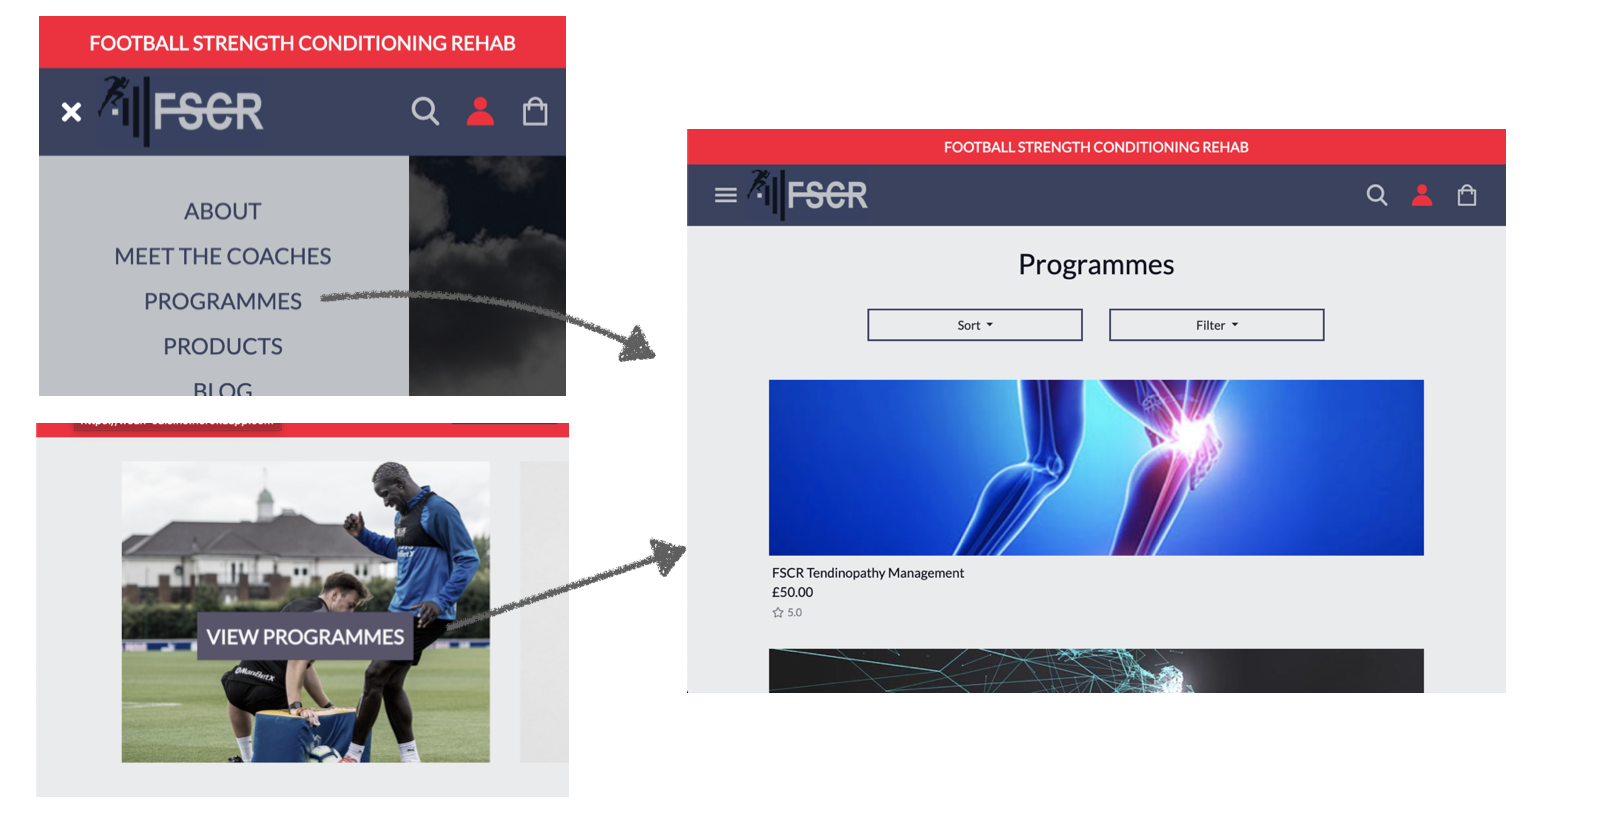
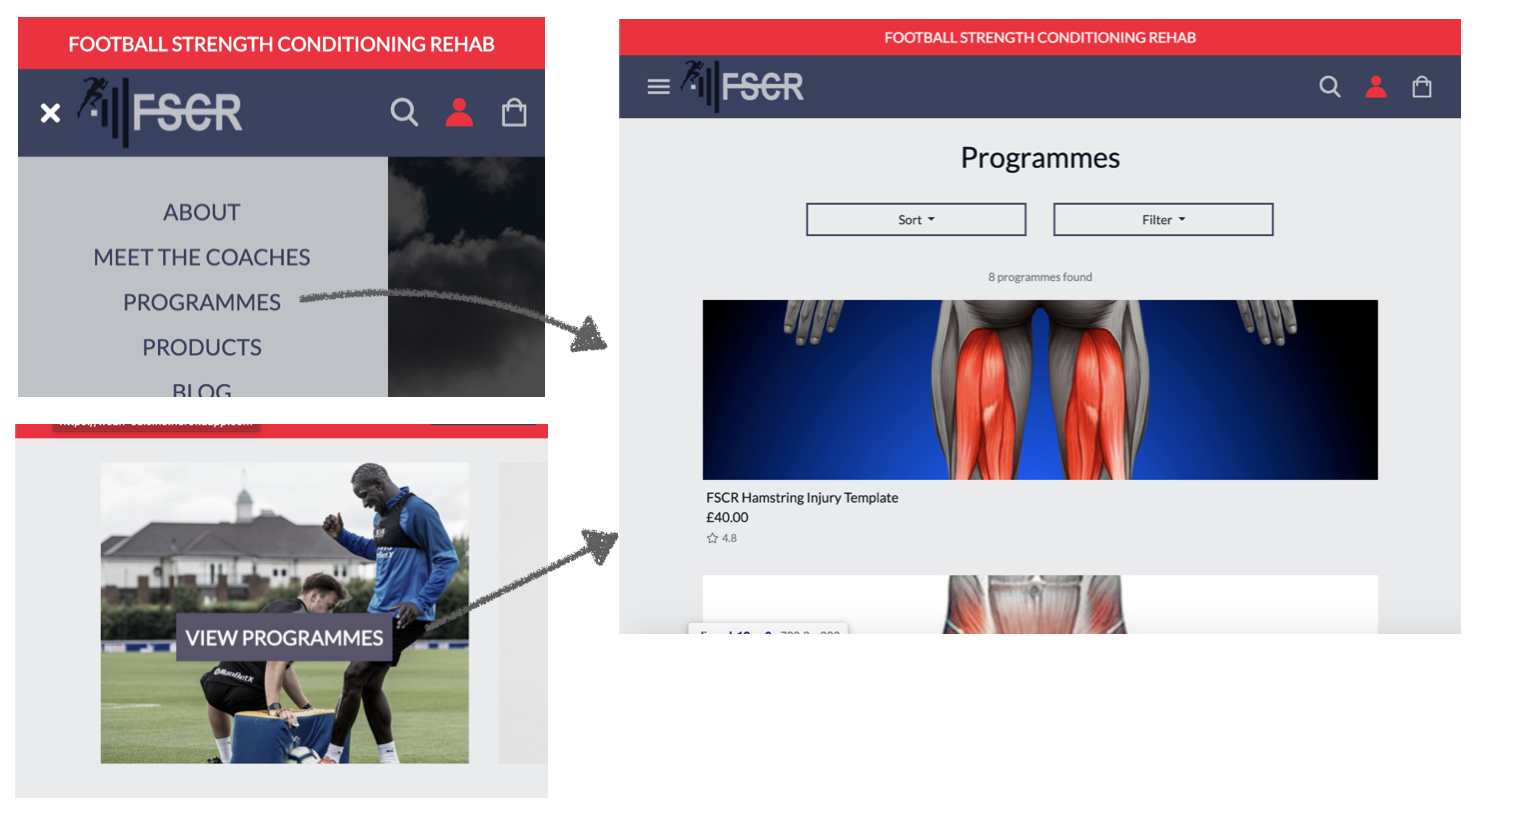
user stories section updated

diff --git a/testing.md b/testing.md
@@ -37,9 +37,7 @@ I created a 'programmes' page including a list of all programmes, displaying pro
 
 **4. View a specific category of products or programmes**
 
-I added a sort and filter option to both the products and programmes page. Users have the ability to sort alphabetically, by price or by highest rated. They also have the option to filter by a specific category to allow them to quickly find what they are searching for.
-
-<img src="media/us-4.png">
+I added a filter option to both the products and programmes page giving users the ability to quickly find what they are searching for. (More specific details on this in user story 17).
 
 **5. View individual product details**
 
@@ -122,6 +120,8 @@ If the user has filled in their profile information, these details will be prefi
 **17. Sort and filter the list of available products and programmes**
 
 I have added a sort and filter option to the products and programmes page to allow a user to easily find what they are looking for. I also decided to add this function to the blog page as I think it will be useful to the user as more blogs get posted over time.
+
+The pages also feature a count functionality showing the user how many items are being displayed on the page. For example if the user filtered the products page by accessories they would see all the accessories and the number of products found. If no products are found the user would be displayed with the message "Sorry no search results found".
 
 <img src="media/us-17.png">
 
